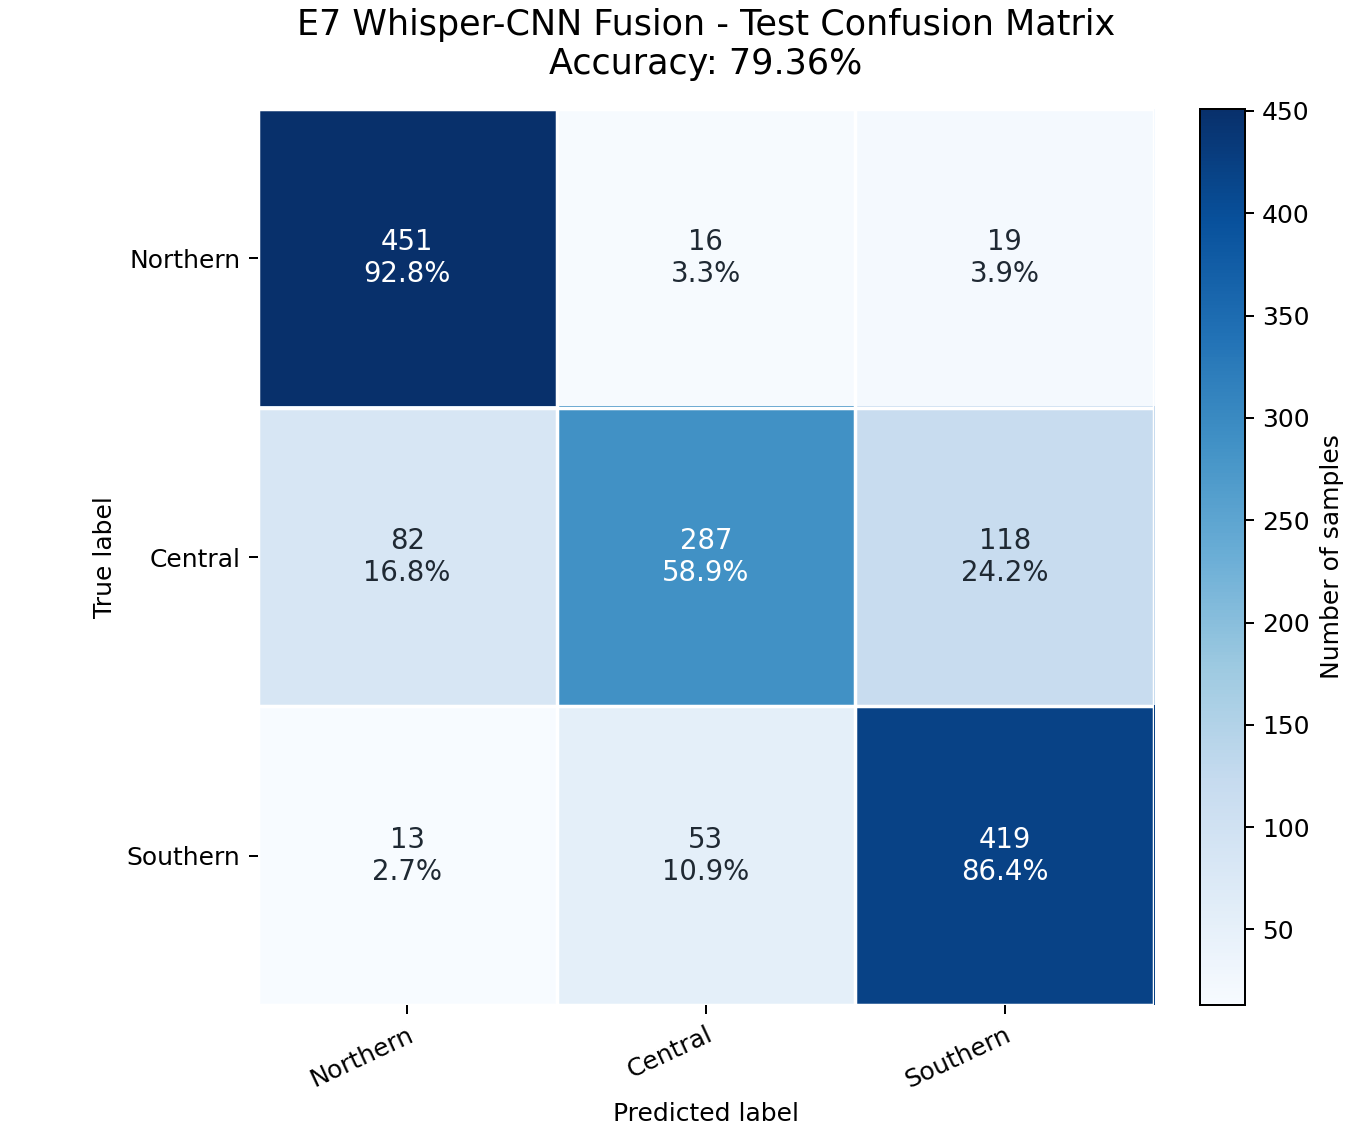
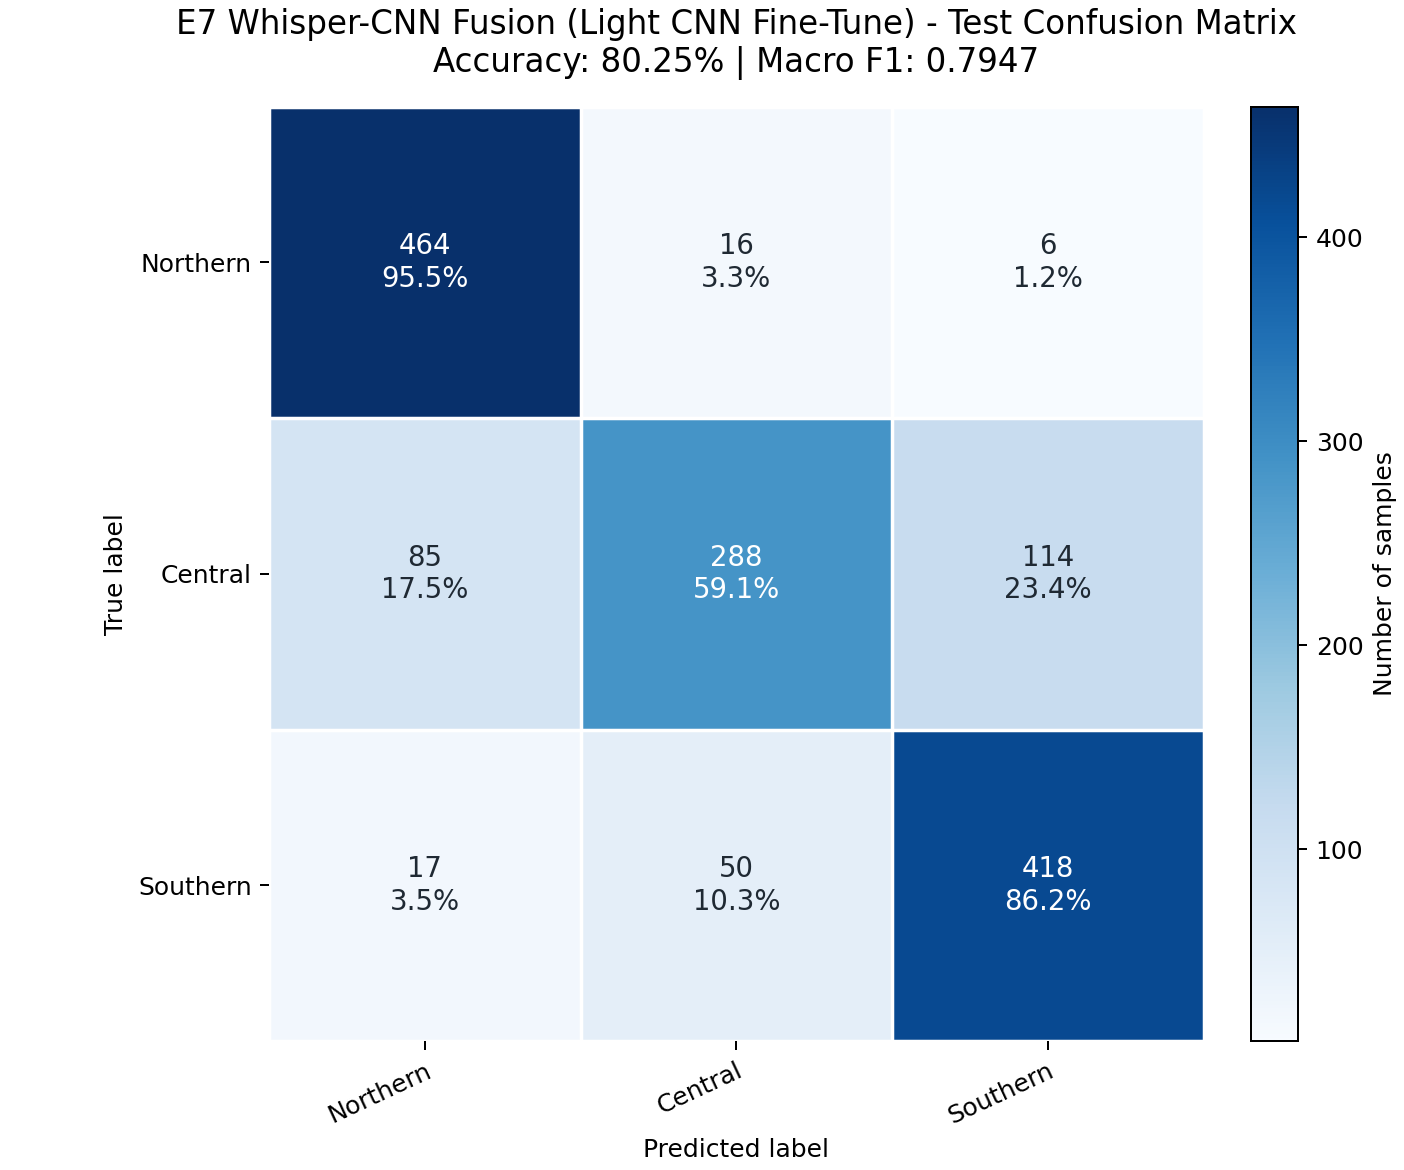
Record E7 fine-tuned fusion results
Update E7 metrics, confusion matrices, training log, report, and confusion figure for the latest lightly fine-tuned EfficientNetB0 local-branch run.

diff --git a/outputs/reports/phase10_whisper_cnn_fusion_report.md b/outputs/reports/phase10_whisper_cnn_fusion_report.md
@@ -1,26 +1,28 @@
 # Phase 10 PhoWhisper + CNN Fusion Report
 
-This experiment combines a frozen PhoWhisper encoder branch with a frozen trained E2 EfficientNetB0-style log-Mel branch. Only the projection, fusion, and classification head are trained. The decoder is not used, and no ASR transcript is generated.
+This experiment combines a frozen PhoWhisper encoder branch with a lightly fine-tuned trained E2 EfficientNetB0-style log-Mel branch. Only the selected CNN tail blocks plus the projection, fusion, and classification head are trained.
+The decoder is not used, and no ASR transcript is generated.
 
 | Split | Accuracy | Macro F1 | Central Recall | Central F1 | Loss |
 | --- | ---: | ---: | ---: | ---: | ---: |
-| train | 0.9078 | 0.9048 | 0.7974 | 0.8590 | 0.2523 |
-| valid | 0.8237 | 0.8192 | 0.6571 | 0.7356 | 0.4724 |
-| test | 0.7936 | 0.7866 | 0.5893 | 0.6809 | 0.5483 |
+| train | 0.9061 | 0.9034 | 0.8065 | 0.8604 | 0.2514 |
+| valid | 0.8244 | 0.8194 | 0.6530 | 0.7277 | 0.4490 |
+| test | 0.8025 | 0.7947 | 0.5914 | 0.6849 | 0.5145 |
 
-Best epoch by validation macro F1: 11.
+Best epoch by validation macro F1: 7.
 Training device: `mps`.
 Fusion type: `gated`.
 PhoWhisper encoder trainable parameters: 0.
-EfficientNet local encoder trainable parameters: 0.
+EfficientNet local encoder trainable parameters: 69400.
+EfficientNet trainable child modules: `5, 6`.
 EfficientNet checkpoint: `outputs/models/e2_efficientnetb0_logmel.pt`.
 Checkpoint: `outputs/models/e7_whisper_cnn_fusion.pt`.
 
 ## Central Dialect Focus
 
-- Test Central recall: 0.5893.
-- Test Central F1: 0.6809.
-- Central -> Northern errors: 82.
-- Central -> Southern errors: 118.
+- Test Central recall: 0.5914.
+- Test Central F1: 0.6849.
+- Central -> Northern errors: 85.
+- Central -> Southern errors: 114.
 
 The model predicts only the three dataset-defined regional dialect labels. It does not infer hometown, identity, ethnicity, or personal background.
